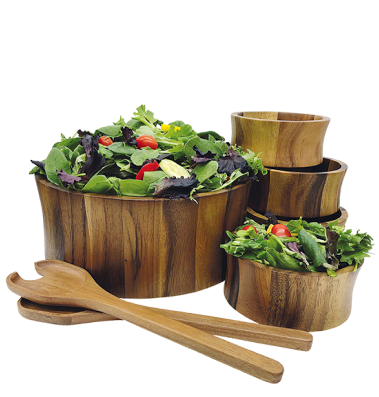
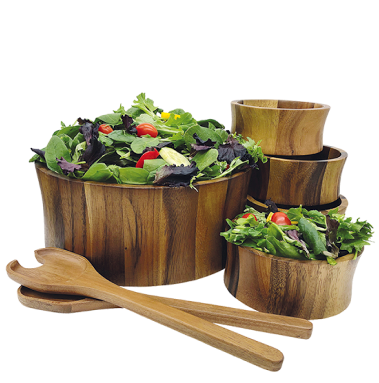
Adicionados ajustes no css e Ajustes em algumas imagens

diff --git a/index.html b/index.html
@@ -48,8 +48,8 @@
         </div>
         <div class="img-text">
           <div class="img-1">
-            <div class="color-2"></div>
-            <div class="salad"> <img src="./img/salad.png" alt=""> </div>
+            <div class="color-2"><img src="img/rectangle-yellow.png"></div>
+            <div class="salad"> <img src="img/wood-salad.png" alt=""> </div>
           </div>     
           <div class="text-p">
             <p><strong>WOODIES</strong> is the <strong>home of modern wooden furniture</strong></p>

diff --git a/css/style.css b/css/style.css
@@ -215,11 +215,12 @@ a {
 .img-text {
   display: flex;
   align-items: center;
+  justify-content: space-between;
 }
 
 .img-1 {
   position: relative;
-  width: 1000px;
+  width: 50%;
   margin: 10rem 5rem 5rem 10rem;
   display: flex;
   justify-content: flex-end;
@@ -228,14 +229,11 @@ a {
 .color-2 {
   position: absolute;
   width: 65%;
-  height: 100%;
-  background: #F7DEA6;
   left: 0;
-  border-radius: 0 13em 0 13em;
 }
 
 .img-2 {
-  width: 600px;
+  width: 30%;
 }
 
 .salad {
